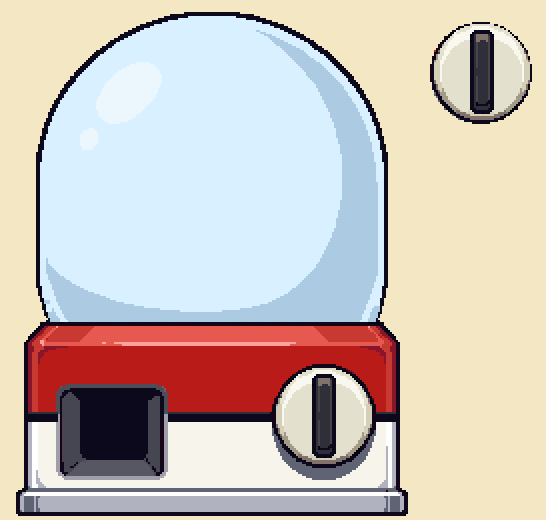
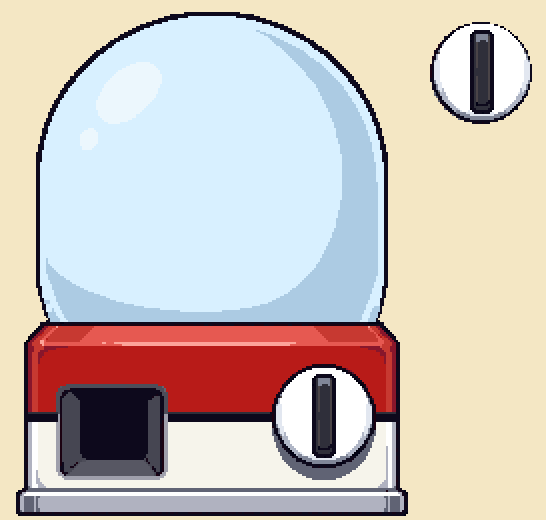
알 뽑기 기계 손잡이 흰색으로, 화면 배치 시안 3종

Changed region(s): [[0.4982, 0.7077, 0.685, 0.8923], [0.7784, 0.0308, 0.9963, 0.2462]]

diff --git a/assets_src/gacha/pixellab/README.md b/assets_src/gacha/pixellab/README.md
@@ -21,3 +21,8 @@ machine_red_1을 스크립트로 수정. PixelLab 생성 0번.
 - 위 빨강, 아래 하양, 가운데 검은 띠(y 204~208)가 손잡이 중심을 지남
 - 돔 테두리 4px에서 2px로. 돔 안쪽 172x153
 - knob_ball, shine_ball 함께 사용. 좌표는 layout.json의 ball
+
+손잡이: machine_ball_1, knob_ball의 크림색을 흰색으로 교체 (면 #ffffff, 테두리 음영 #e2e7f0).
+
+## layout_mock/
+알 뽑기 화면 시안. 게임의 실제 CSS로 그린 390px 폭 화면이고 알 그림은 임시. cur=현재, A/B/C=시안, _f=알 있음, _e=빈 상태.
